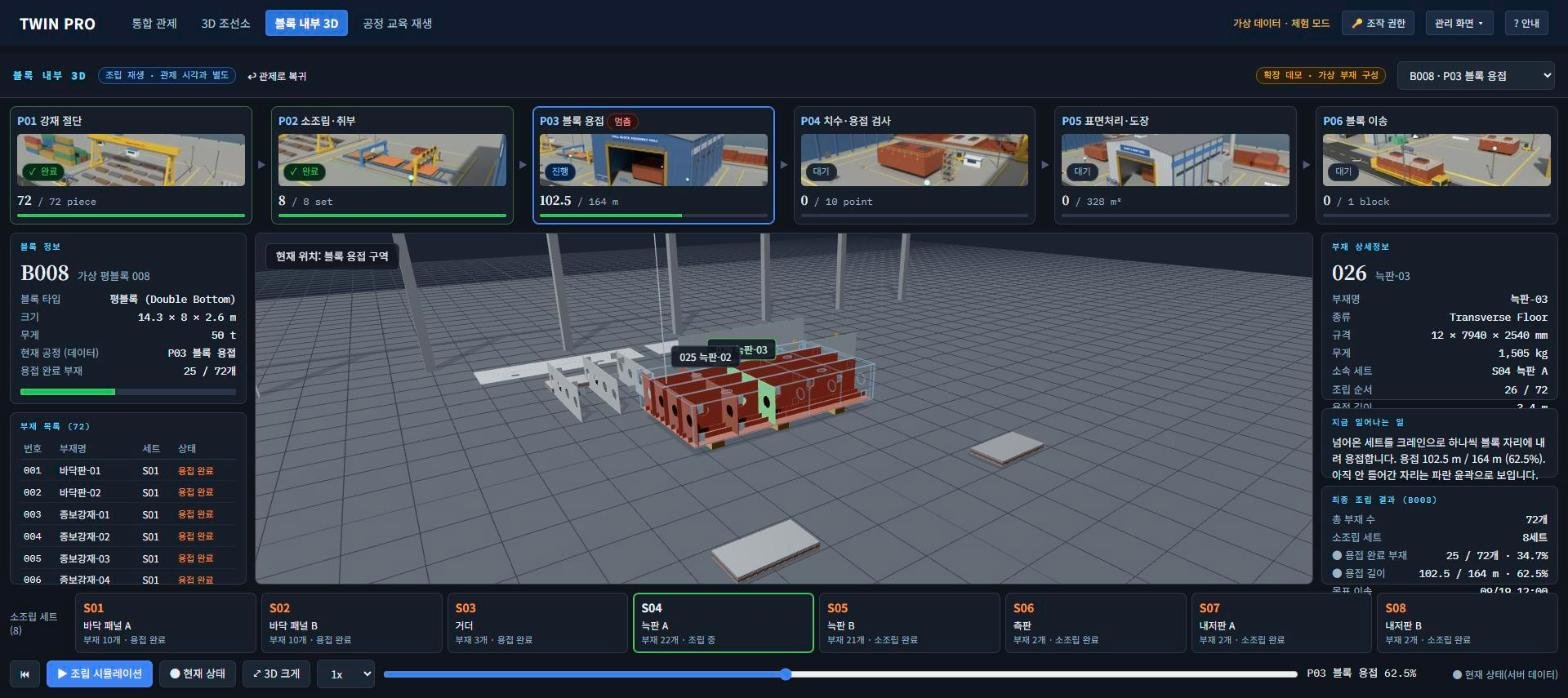
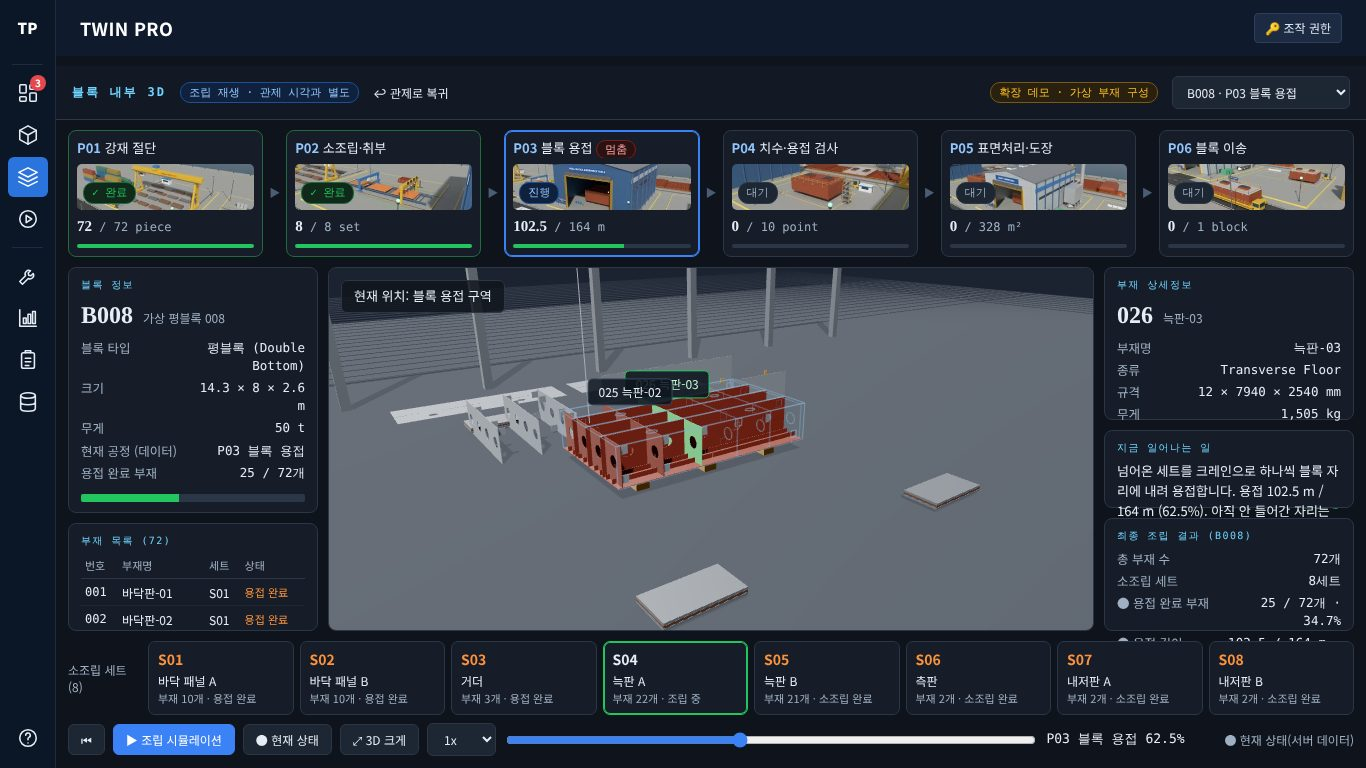
README 최신화 — 빌드 날짜·3D 도구줄 표기·검증 문구 정리, 화면 캡처 4장을 현재 빌드(사이드바·관제 톤)로 교체
Claude-Session: https://claude.ai/code/session_0118yJohinjDPUbRGhyax1CZ

diff --git a/README.md b/README.md
@@ -23,7 +23,7 @@
 | 통합 관제 | 3D 조선소 |
 |---|---|
 | ![통합 관제 화면](docs/screen-dashboard.jpg) | ![3D 조선소 화면](docs/screen-3d-shipyard.jpg) |
-| 공정 6곳의 블록 · 작업지시 · 설비 · 사건 연결 상태, 진행률 · 멈춘 작업 · 미해결 사건 · 설비 가동 지표, 사건 목록과 운영 요약 | Blender 코드로 만든 가상 조선소 모델 위에 공정별 상태 · 블록 · 수량을 서버 데이터 그대로 표시 |
+| 왼쪽 아이콘 사이드바 + 공정 6곳의 블록 · 작업지시 · 설비 · 사건 연결 상태, 진행률 · 멈춘 작업 · 미해결 사건 · 설비 가동 지표, 사건 목록과 운영 요약 | 관제 톤 3D 조선소: 바닥 상태 표기 · 하단 KPI · 사건 알람과 운영 브리핑, 평면 보기 · 사건 현장 · 자동 순회 |
 | **블록 내부 3D** | **공정 교육 재생** |
 | ![블록 내부 3D 화면](docs/screen-block-3d.jpg) | ![공정 교육 재생 화면](docs/screen-process-replay.jpg) |
 | 블록 하나(예: B008)의 부재 72개 · 소조립 세트 8개 조립 상태와 공정별 진행, 조립 시뮬레이션 | 블록 하나가 01 절단부터 06 이송 · 탑재까지 거쳐 배에 올라가는 정상 흐름 재생(서버 데이터는 바꾸지 않음) |
@@ -36,7 +36,7 @@
 조선 블록 제작 운영 모니터링 시연 시스템입니다. 관제·관리 화면 5개(01H 확정안: 관제 대시보드 · 설비 상태 · 생산 현황 · 작업 관리 · 기준정보)와 3D 확장 화면(3D 조선소 · 블록 내부 3D · 공정 교육 재생), Supabase(Postgres) 서버 함수로 구성되어 있으며, 받은 엑셀(`02 가상데이터.xlsx`) 15개 시트를 그대로 DB에 올려 사용합니다.
 
 - 화면 주소: **https://develop-korea-tech.github.io/twinpro-demo/** (GitHub Pages, 저장소 develop-korea-tech/twinpro-demo)
-- 화면 파일: `index.html` 한 파일(2026-10-18 빌드). 전체 소스 패키지에서는 같은 빌드 결과물의 이름이 `twinpro.html`입니다. 이 문서에서는 화면 파일을 모두 `index.html`로 적습니다.
+- 화면 파일: `index.html` 한 파일(2026-10-24 빌드, 이후 사이드바 수정 포함). 전체 소스 패키지에서는 같은 빌드 결과물의 이름이 `twinpro.html`입니다. 이 문서에서는 화면 파일을 모두 `index.html`로 적습니다.
 - 서버: Supabase 프로젝트 `twinpro-demo`(서울 리전)
   - 주소: `https://rrgvqgphhwzkeuvdwndu.supabase.co` (`index.html`에 이미 들어 있습니다)
   - 시연 코드: 팀 단톡방에서 따로 공유합니다.
@@ -199,7 +199,7 @@
 
 ### 3-2. 3D 확장 데모 (선택, 약 1분)
 
-과제 정의서에서 3D는 **제외범위**입니다. 센터장님께 확인한 결과 "제외범위는 확정이지만, 팀에서 구현 가능하면 일부를 시연 구현하는 것은 문제없음"이라는 답을 받아, 기존 2D 화면은 그대로 두고 **별도 화면**(3D 조선소 · 블록 내부 3D · 공정 교육 재생)으로 만들었습니다. 3D 조선소 도구줄에는 「확장 데모 · 과제 제외범위를 팀이 시연용으로 구현 · 가상 모델, 상태·수량은 서버 데이터」, 블록 내부 3D 위쪽에는 「확장 데모 · 가상 부재 구성」이라고 표시됩니다.
+과제 정의서에서 3D는 **제외범위**입니다. 센터장님께 확인한 결과 "제외범위는 확정이지만, 팀에서 구현 가능하면 일부를 시연 구현하는 것은 문제없음"이라는 답을 받아, 기존 2D 화면은 그대로 두고 **별도 화면**(3D 조선소 · 블록 내부 3D · 공정 교육 재생)으로 만들었습니다. 3D 조선소 도구줄 오른쪽에는 「확장 데모 · 가상 모델 · 상태·수량은 서버 데이터」(좁은 화면에서는 숨김), 블록 내부 3D 위쪽에는 「확장 데모 · 가상 부재 구성」이라고 표시됩니다.
 
 **3D 조선소**
 
@@ -421,7 +421,7 @@ npm install @electric-sql/pglite
 node e2e.js                              # 결과: e2e_result.json, 스크린샷: shots/
 ```
 
-`config.json`에 Supabase URL·anon 키·시연 코드를 넣고 빌드하면, 연결 설정 없이 바로 붙는 완성 파일이 나옵니다. 이 저장소의 `index.html`(2026-10-18 빌드)에는 서버 주소와 anon 키만 들어 있고 시연 코드는 들어 있지 않습니다.
+`config.json`에 Supabase URL·anon 키·시연 코드를 넣고 빌드하면, 연결 설정 없이 바로 붙는 완성 파일이 나옵니다. 이 저장소의 `index.html`(2026-10-24 빌드)에는 서버 주소와 anon 키만 들어 있고 시연 코드는 들어 있지 않습니다.
 
 호스팅 화면을 바꿀 때는 `dist/twinpro.html`을 이 저장소에 `index.html`이라는 이름으로 올립니다.
 
@@ -437,10 +437,10 @@ node e2e.js                              # 결과: e2e_result.json, 스크린샷
 ## 7. 검증 결과
 
 - 2026-10-24 빌드(`index.html`, 3D 관제 연출 · 왼쪽 아이콘 사이드바 추가): 로컬 Postgres + 실제 화면 클릭 자동 테스트 132/132 통과. 기존 127개(관제 · 사건 7단계 · 체험 모드 · 블록 내부 3D · 공정 교육 재생 등)에 3D 관제 5개(KPI · 알람 · 운영 브리핑, 사건 현장의 영향 상자 · 말풍선 · 절차 · 근거, 3D에서 1단계 실행 후 결과 3줄 · 처리 기록 · 공정 색 유지, 평면 보기, 자동 순회 · 톤 전환)를 더했습니다. 외부 QC(GPT, 독창성 20 · 수요기업 20 · 초보 UX 20 · 구현 난이도 10 · 시나리오 30) 3차 97점.
-- 아래 자동 테스트 결과는 전체 소스 패키지의 기록(`e2e_result.json`, `supabase_live_result.txt`)에 있던 **이전 빌드** 기준입니다(쉬운 화면 · 문제 카드가 있던 판). 이 저장소에는 테스트 코드와 결과 파일이 없고, 2026-10-18 빌드(`index.html`)로 다시 돌린 기록도 없습니다.
+- 아래 자동 테스트 결과는 전체 소스 패키지의 기록(`e2e_result.json`, `supabase_live_result.txt`)에 있던 **이전 빌드** 기준입니다(쉬운 화면 · 문제 카드가 있던 판). 이 저장소에는 테스트 코드와 결과 파일이 없습니다. 현재 빌드의 결과는 바로 위 항목(132/132)입니다.
   - 로컬 Postgres(같은 SQL) + 실제 화면 클릭 자동 테스트: 107/107 통과. 확장 기능(AI 5회 제한 · 신호 규칙 · 자동 재생 · 가져오기 전체 취소), 체험 모드, 내 화면만 시간 진행, 재생 잠금, 3D 확장 데모, 공정 시뮬레이션, 블록 제조 화면을 포함했습니다. AI는 테스트에서 Claude 대신 고정 문장을 씁니다.
   - 실제 Supabase(twinpro-demo) 실브라우저 테스트: 보안 · 동시성 · 실시간 16/16 통과, 화면 2개(조작 1, 보기 1) 시나리오 통과
-- 2026-10-20 GitHub Pages 화면 수동 확인: 위쪽 탭 4개와 오른쪽 표시 · 버튼, 관제 대시보드(가상 시각 09/16 (수) 12:00, 진행률 74% · 멈춘 작업 3 · 미해결 사건 3 · 설비 가동 2/8, 공정 카드 6개, 대기·예비 설비 EQ07 · EQ08, 사건 3건, 운영 요약 탭 3개), 3D 조선소(`#3d`), 블록 내부 3D(`#blk`, B008 · 부재 72 · 세트 8), 공정 교육 재생(B011 · 전체 약 7분)의 화면 표시를 확인했습니다. 자동 테스트는 다시 돌리지 않았습니다.
+- 2026-10-20 GitHub Pages 화면 수동 확인(사이드바 추가 전 빌드): 위쪽 탭 4개와 오른쪽 표시 · 버튼, 관제 대시보드(가상 시각 09/16 (수) 12:00, 진행률 74% · 멈춘 작업 3 · 미해결 사건 3 · 설비 가동 2/8, 공정 카드 6개, 대기·예비 설비 EQ07 · EQ08, 사건 3건, 운영 요약 탭 3개), 3D 조선소(`#3d`), 블록 내부 3D(`#blk`, B008 · 부재 72 · 세트 8), 공정 교육 재생(B011 · 전체 약 7분)의 화면 표시를 확인했습니다. 자동 테스트는 다시 돌리지 않았습니다.
 
 ## 8. 알려진 제약
 
